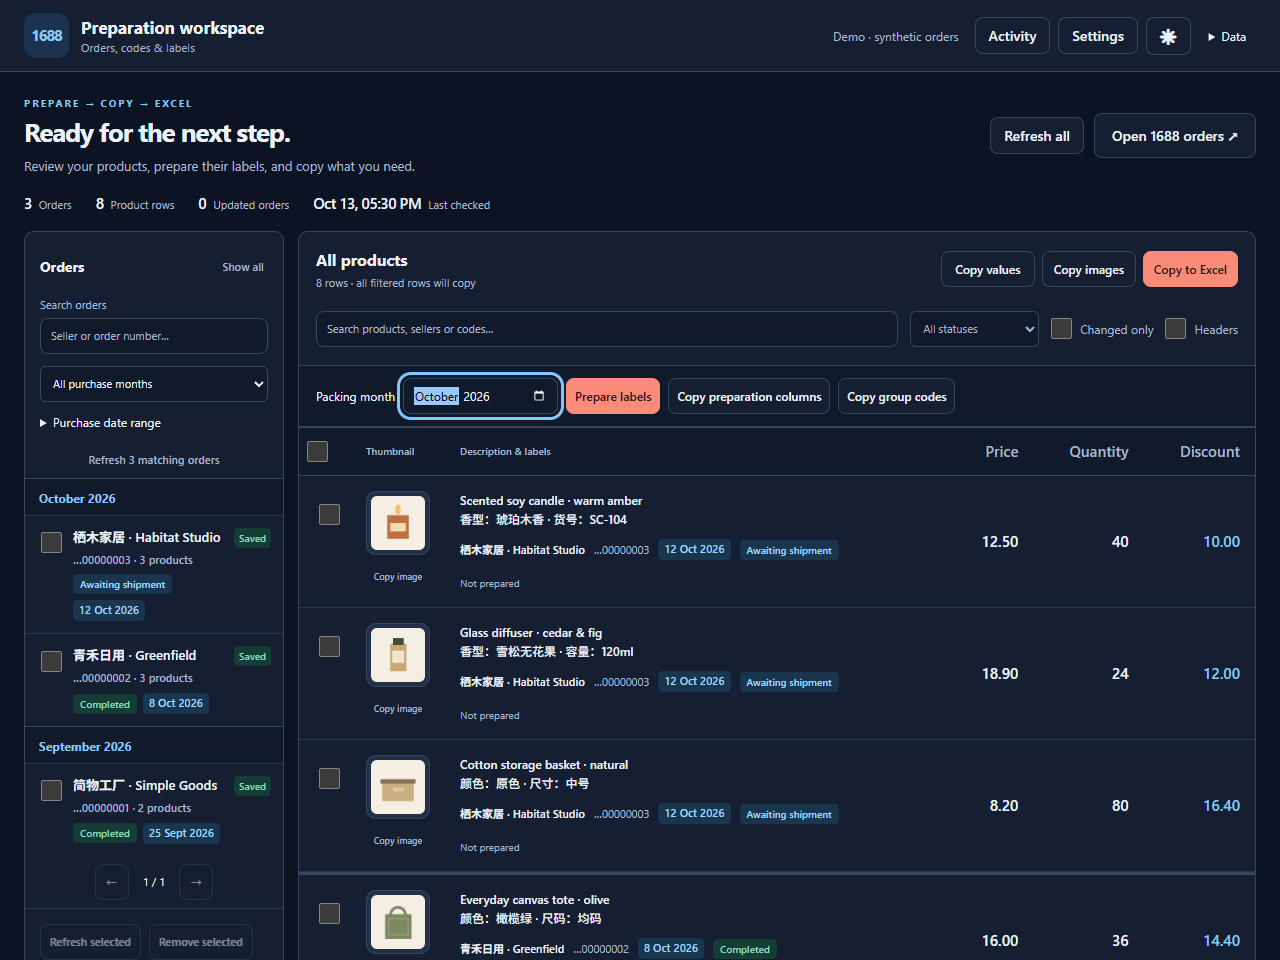
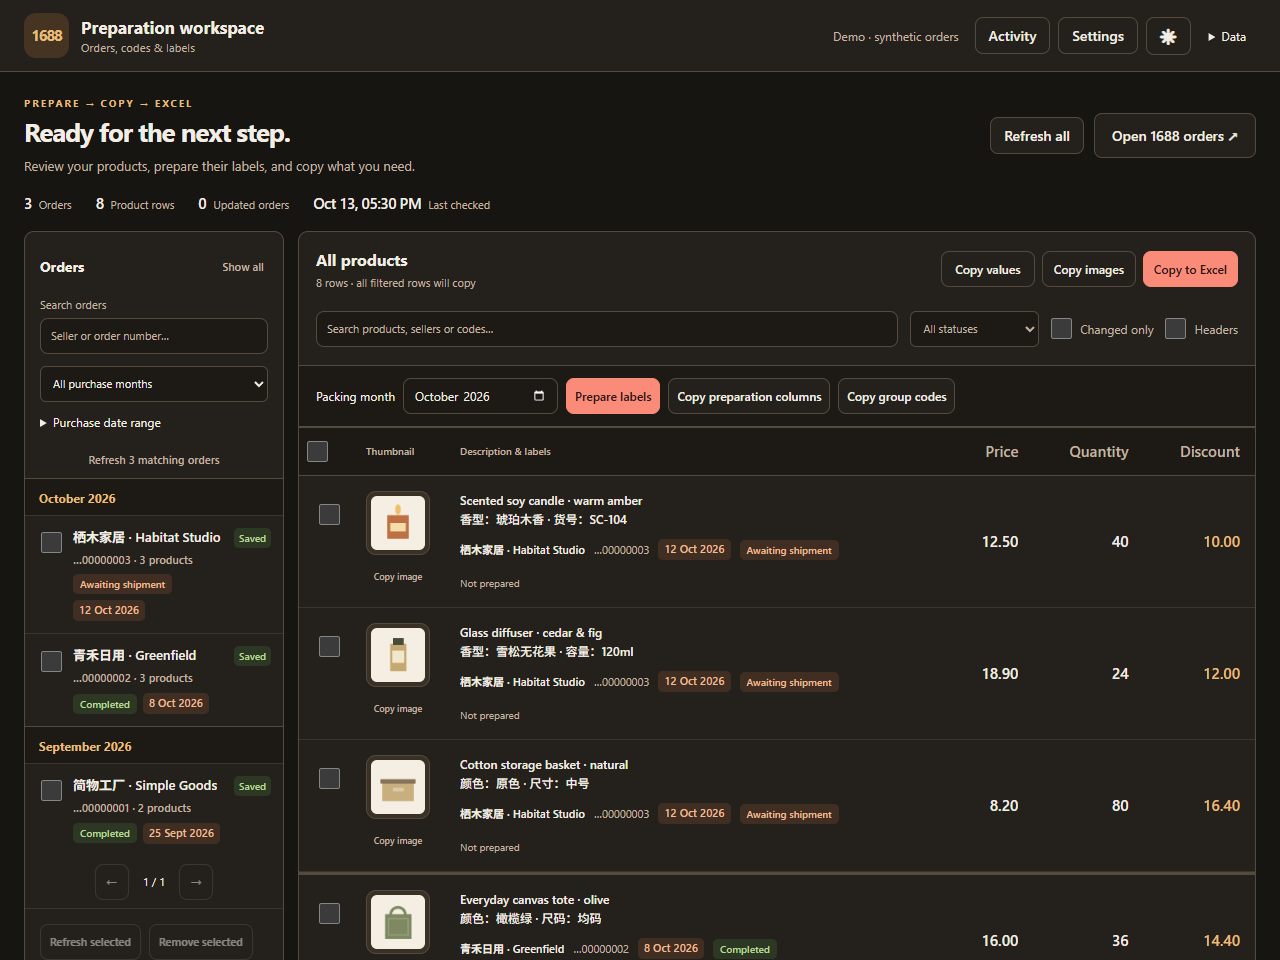
Replace blue interface tones with a warm neutral palette

diff --git a/src/library.css b/src/library.css
@@ -1,102 +1,102 @@
 /* Semantic colors work in Chrome 120 without light-dark(). */
 :root {
-  --page: #f4f6fa;
-  --surface: #ffffff;
-  --text: #182337;
-  --muted: #58677f;
-  --border: #d7dfeb;
-  --divider: #e7edf5;
-  --hover: #eef3fa;
-  --field: #f7f9fc;
+  --page: #f6f3ee;
+  --surface: #fffdf9;
+  --text: #2c2723;
+  --muted: #6f6358;
+  --border: #d8cfc3;
+  --divider: #e9e1d6;
+  --hover: #eee6da;
+  --field: #faf7f1;
   --accent: #c74335;
   --accent-hover: #ab342b;
-  --on-accent: #ffffff;
-  --accent-text: #136b99;
-  --control-accent: #246dc5;
-  --selected: #e9f2ff;
-  --success: #e7f5ef;
-  --success-text: #22684d;
-  --warning: #fff4db;
-  --warning-text: #805a16;
+  --on-accent: #fffdf9;
+  --accent-text: #855621;
+  --control-accent: #9b5b25;
+  --selected: #f4e6d1;
+  --success: #eaf1df;
+  --success-text: #48652b;
+  --warning: #fff2ce;
+  --warning-text: #785516;
   --warning-border: #e9d4a5;
-  --info: #e7f2fc;
-  --info-text: #226593;
-  --danger: #fdebef;
-  --danger-text: #a32e42;
+  --info: #f2e5dd;
+  --info-text: #875237;
+  --danger: #fce8e2;
+  --danger-text: #9c3542;
   --changed: #fffaf0;
-  --thumb: #edf2f8;
-  --focus: #1675d8;
-  --feedback: #1d334d;
-  --on-feedback: #ffffff;
+  --thumb: #ede5da;
+  --focus: #95511d;
+  --feedback: #45382b;
+  --on-feedback: #fffdf9;
   --error: #b5363e;
-  --on-error: #ffffff;
+  --on-error: #fffdf9;
 }
 @media (prefers-color-scheme: dark) {
   :root:not(:has(> head > meta[name='color-scheme'][content='light'])) {
-    --page: #0c1322;
-    --surface: #151f31;
-    --text: #edf3fc;
-    --muted: #a9b8cf;
-    --border: #34455e;
-    --divider: #27364e;
-    --hover: #20304a;
-    --field: #101a2b;
+    --page: #171512;
+    --surface: #24211d;
+    --text: #f3eee5;
+    --muted: #c2b5a2;
+    --border: #544a3e;
+    --divider: #3d352c;
+    --hover: #332d25;
+    --field: #1d1a16;
     --accent: #fb8b79;
     --accent-hover: #ff9d8d;
     --on-accent: #291714;
-    --accent-text: #8ac9f5;
-    --control-accent: #7ac4ff;
-    --selected: #1b3351;
-    --success: #163c36;
-    --success-text: #8eddbd;
-    --warning: #3d311e;
+    --accent-text: #e8bd7c;
+    --control-accent: #e8ad63;
+    --selected: #443421;
+    --success: #2c3824;
+    --success-text: #bbd99b;
+    --warning: #43351c;
     --warning-text: #f1ce86;
-    --warning-border: #6f5630;
-    --info: #19364e;
-    --info-text: #a0d9fc;
-    --danger: #47242f;
-    --danger-text: #ffb5c5;
-    --changed: #302b24;
-    --thumb: #223149;
-    --focus: #7ec8ff;
-    --feedback: #244865;
-    --on-feedback: #edf5ff;
-    --error: #f5a0a6;
-    --on-error: #39151e;
+    --warning-border: #705c33;
+    --info: #402e23;
+    --info-text: #edbd97;
+    --danger: #482824;
+    --danger-text: #ffb6a6;
+    --changed: #393023;
+    --thumb: #393126;
+    --focus: #e8b875;
+    --feedback: #493a29;
+    --on-feedback: #fff4e3;
+    --error: #f5a099;
+    --on-error: #381918;
   }
 }
 :root:has(> head > meta[name='color-scheme'][content='dark']) {
   color-scheme: dark;
-  --page: #0c1322;
-  --surface: #151f31;
-  --text: #edf3fc;
-  --muted: #a9b8cf;
-  --border: #34455e;
-  --divider: #27364e;
-  --hover: #20304a;
-  --field: #101a2b;
+  --page: #171512;
+  --surface: #24211d;
+  --text: #f3eee5;
+  --muted: #c2b5a2;
+  --border: #544a3e;
+  --divider: #3d352c;
+  --hover: #332d25;
+  --field: #1d1a16;
   --accent: #fb8b79;
   --accent-hover: #ff9d8d;
   --on-accent: #291714;
-  --accent-text: #8ac9f5;
-  --control-accent: #7ac4ff;
-  --selected: #1b3351;
-  --success: #163c36;
-  --success-text: #8eddbd;
-  --warning: #3d311e;
+  --accent-text: #e8bd7c;
+  --control-accent: #e8ad63;
+  --selected: #443421;
+  --success: #2c3824;
+  --success-text: #bbd99b;
+  --warning: #43351c;
   --warning-text: #f1ce86;
-  --warning-border: #6f5630;
-  --info: #19364e;
-  --info-text: #a0d9fc;
-  --danger: #47242f;
-  --danger-text: #ffb5c5;
-  --changed: #302b24;
-  --thumb: #223149;
-  --focus: #7ec8ff;
-  --feedback: #244865;
-  --on-feedback: #edf5ff;
-  --error: #f5a0a6;
-  --on-error: #39151e;
+  --warning-border: #705c33;
+  --info: #402e23;
+  --info-text: #edbd97;
+  --danger: #482824;
+  --danger-text: #ffb6a6;
+  --changed: #393023;
+  --thumb: #393126;
+  --focus: #e8b875;
+  --feedback: #493a29;
+  --on-feedback: #fff4e3;
+  --error: #f5a099;
+  --on-error: #381918;
 }
 :root:has(> head > meta[name='color-scheme'][content='light']) {
   color-scheme: light;
@@ -119,6 +119,16 @@
 }
 body {
   margin: 0;
+}
+::selection {
+  background: var(--selected);
+  color: var(--text);
+}
+input::-webkit-datetime-edit-month-field:focus,
+input::-webkit-datetime-edit-day-field:focus,
+input::-webkit-datetime-edit-year-field:focus {
+  background: var(--selected);
+  color: var(--text);
 }
 button,
 input,
@@ -679,7 +689,7 @@ td.select-col {
   background: var(--feedback);
   color: var(--on-feedback);
   border-radius: 8px;
-  box-shadow: 0 8px 28px #080f2026;
+  box-shadow: 0 8px 28px #17120c26;
   font-size: 12px;
   max-width: 900px;
   margin: 20px auto 0;
@@ -701,7 +711,7 @@ dialog {
   color: var(--text);
 }
 dialog::backdrop {
-  background: #060d1b9e;
+  background: #100d099e;
 }
 .dialog-close {
   float: right;

diff --git a/src/list-toolbar.js b/src/list-toolbar.js
@@ -8,7 +8,7 @@ export function mountListToolbar(document, { readList, send }) {
     return el
   }
   const style = make('style')
-  style.textContent = `:host{all:initial;position:fixed;bottom:14px;right:14px;z-index:2147483647;display:block;max-width:calc(100vw - 28px)}aside{font:12px/1.5 system-ui,sans-serif;color:#344330;background:#fcfcf8;border:1px solid #d6dfcc;border-radius:12px;box-shadow:0 5px 25px #19351b24;padding:13px;width:360px;max-width:calc(100vw - 28px);box-sizing:border-box}strong{font-size:12px;display:block;margin-bottom:8px}nav,.actions{display:flex;gap:6px;flex-wrap:wrap}button{font:inherit;border:1px solid #d6dfcc;border-radius:6px;background:white;color:#475b3c;padding:8px 10px;cursor:pointer}.primary{background:#dd4d23;color:white;border-color:#dd4d23}button:disabled{opacity:.5;cursor:default}button:focus-visible,summary:focus-visible{outline:3px solid #598bd0;outline-offset:2px}p{margin:8px 0;overflow-wrap:anywhere;font-size:11px}p:empty,[hidden]{display:none!important}.error{color:#a13f24}details{margin-top:10px}summary{cursor:pointer;font-size:11px;color:#687761}.confirm,.progress{margin-top:10px;padding-top:10px;border-top:1px solid #d6dfcc}.confirm{border:1px solid #dfbd85;background:#fff7e8;padding:10px;border-radius:8px}.confirm strong{font-size:12px}.secondary{font-size:11px}a{color:inherit}@media(prefers-color-scheme:dark){aside{color:#e0e8db;background:#202620;border-color:#43513e}button{color:#d8e4d0;background:#2b3429;border-color:#4b5945}.primary{background:#c64522;color:#fff;border-color:#c64522}summary{color:#b4c4aa}.confirm{background:#352d1f;border-color:#71603c}.error{color:#ffb6a6}.progress{border-color:#43513e}}`
+  style.textContent = `:host{all:initial;position:fixed;bottom:14px;right:14px;z-index:2147483647;display:block;max-width:calc(100vw - 28px)}aside{font:12px/1.5 system-ui,sans-serif;color:#344330;background:#fcfcf8;border:1px solid #d6dfcc;border-radius:12px;box-shadow:0 5px 25px #19351b24;padding:13px;width:360px;max-width:calc(100vw - 28px);box-sizing:border-box}strong{font-size:12px;display:block;margin-bottom:8px}nav,.actions{display:flex;gap:6px;flex-wrap:wrap}button{font:inherit;border:1px solid #d6dfcc;border-radius:6px;background:white;color:#475b3c;padding:8px 10px;cursor:pointer}.primary{background:#dd4d23;color:white;border-color:#dd4d23}button:disabled{opacity:.5;cursor:default}button:focus-visible,summary:focus-visible{outline:3px solid #b77c32;outline-offset:2px}p{margin:8px 0;overflow-wrap:anywhere;font-size:11px}p:empty,[hidden]{display:none!important}.error{color:#a13f24}details{margin-top:10px}summary{cursor:pointer;font-size:11px;color:#687761}.confirm,.progress{margin-top:10px;padding-top:10px;border-top:1px solid #d6dfcc}.confirm{border:1px solid #dfbd85;background:#fff7e8;padding:10px;border-radius:8px}.confirm strong{font-size:12px}.secondary{font-size:11px}a{color:inherit}@media(prefers-color-scheme:dark){aside{color:#e0e8db;background:#202620;border-color:#43513e}button{color:#d8e4d0;background:#2b3429;border-color:#4b5945}.primary{background:#c64522;color:#fff;border-color:#c64522}summary{color:#b4c4aa}.confirm{background:#352d1f;border-color:#71603c}.error{color:#ffb6a6}.progress{border-color:#43513e}}`
   const aside = make('aside')
   aside.setAttribute('aria-label', '1688 order library')
   const nav = make('nav')

diff --git a/src/label-editor.css b/src/label-editor.css
@@ -47,7 +47,7 @@
 }
 
 .label-editor-field:focus {
-  outline: 2px solid #2676d9;
+  outline: 2px solid #95511d;
   outline-offset: -2px;
 }
 
@@ -59,7 +59,7 @@
 }
 
 .label-editor input.label-editor-field::placeholder {
-  color: #60656e;
+  color: #6b6156;
   font-weight: 500;
 }
 
@@ -114,12 +114,12 @@
 
 .label-editor input.label-code-variantSuffix,
 .label-editor input.label-code-variantSuffix:hover {
-  border-color: #66d9ef;
+  border-color: #e7b66d;
 }
 
 .label-editor input.label-code-sizeSuffix,
 .label-editor input.label-code-sizeSuffix:hover {
-  border-color: #c6a4ff;
+  border-color: #f0a18e;
 }
 
 .label-editor input.label-code-part:placeholder-shown {
@@ -129,7 +129,7 @@
 }
 
 .label-editor input.label-code-part::placeholder {
-  color: #596575;
+  color: #6f6253;
 }
 
 .label-editor input.label-code-part:focus-visible {
@@ -138,7 +138,7 @@
 }
 
 .label-editor input.label-code-part:placeholder-shown:focus-visible {
-  outline-color: #2676d9;
+  outline-color: #95511d;
 }
 
 .label-code-guide {
@@ -155,7 +155,7 @@
   display: inline-block;
   margin: 0;
   padding: 5px 9px;
-  border: 1px solid var(--border, #c4c8d0);
+  border: 1px solid var(--border, #d8cfc3);
   border-radius: 6px;
 }
 
@@ -164,11 +164,11 @@
 }
 
 .label-code-guide .label-code-key-variantSuffix {
-  border-bottom: 3px solid #28a4c4;
+  border-bottom: 3px solid #b77c32;
 }
 
 .label-code-guide .label-code-key-sizeSuffix {
-  border-bottom: 3px solid #9a78d4;
+  border-bottom: 3px solid #bf6b58;
 }
 
 .label-composed-code {

diff --git a/src/page-download.js b/src/page-download.js
@@ -30,7 +30,7 @@ export function mountPageDownload(document, prepareFile, actions = {}) {
       border-radius: 8px; background: #e64b10; color: white; text-decoration: none;
       text-align: center; font-weight: 650; }
     a:hover { background: #c93e08; }
-    a:focus-visible { outline: 3px solid #456fba; outline-offset: 3px; }
+    a:focus-visible { outline: 3px solid #95511d; outline-offset: 3px; }
     .status { margin: 8px 0 0; overflow-wrap: anywhere; font-size: 12px; color: #58614f; }
     .status:empty { margin: 0; }
     .status[data-tone='error'] { color: #972e21; }
@@ -38,7 +38,7 @@ export function mountPageDownload(document, prepareFile, actions = {}) {
     button { font: inherit; cursor: pointer; flex: 1; padding: 8px 5px;
       border: 1px solid #d9dfd2; border-radius: 6px; background: white; color: #52634b; font-size: 11px; }
     button:hover { background: #e9eee2; }
-    button:focus-visible { outline: 3px solid #456fba; outline-offset: 3px; }
+    button:focus-visible { outline: 3px solid #95511d; outline-offset: 3px; }
     [hidden] { display: none !important; }
     aside[data-importing] { width: 300px; max-height: calc(100dvh - 32px); overflow-y: auto; }
     .import-section { border-top: 1px solid #d9dfd2; margin-top: 10px; padding-top: 10px; }

diff --git a/src/packing.css b/src/packing.css
@@ -488,10 +488,10 @@ select {
   text-transform: uppercase;
 }
 .variants .variant-code-options .code-part-variantSuffix {
-  border-inline-start: 3px solid #28a4c4;
+  border-inline-start: 3px solid #b77c32;
 }
 .variants .variant-code-options .code-part-sizeSuffix {
-  border-inline-start: 3px solid #9a78d4;
+  border-inline-start: 3px solid #bf6b58;
 }
 .variant-code-readout {
   display: block;

diff --git a/CHROMEWEBSTORE.md b/CHROMEWEBSTORE.md
@@ -2,7 +2,7 @@
 
 > Last Updated: 2026-10-15
 >
-> Version 2.2.9 passed local, Chromium, Edge and Windows Excel verification for import progress and the preparation interface refresh. The full live order collection remains incomplete. No store submission or publication. Earlier verification and live browser observations are recorded separately.
+> Version 2.2.10 passed local, Chromium and Edge verification for the warm interface palette. The full live order collection remains incomplete. No store submission or publication. Earlier verification and live browser observations are recorded separately.
 
 ## Store Listing
 
@@ -19,7 +19,7 @@ Collect selected orders, browse purchases by month or date range, and review ori
 
 Zoom product photos from the spreadsheet or preparation and see carton and barcode previews beside each product. Preparation saves automatically; invalid entries stay visible until corrected. Hover over a field or action for a short hint. Code options stay visible; grouping tools stay collapsed until needed. Edit variant and size endings directly on the barcode code band. Share one barcode, give source rows separate barcodes or move variants to a new product. Undo and Redo restore pending edits until autosave completes.
 
-Edit barcode and carton-mark text directly in a label preview. Barcode code bands fit their text; carton marks use larger CE, product codes and categories with compact blank operational fields. Copy printable label images, chosen preparation columns, source values or separate product pictures into Excel. Product codes appear once per group in preparation columns. Headers start off and remember your choice. Settings control label dimensions, resolution, logo and vocabulary. The workspace starts dark and remembers your light/dark choice.
+Edit barcode and carton-mark text directly in a label preview. Barcode code bands fit their text; carton marks use larger CE, product codes and categories with compact blank operational fields. Copy printable label images, chosen preparation columns, source values or separate product pictures into Excel. Product codes appear once per group in preparation columns. Headers start off and remember your choice. Settings control label dimensions, resolution, logo and vocabulary. The workspace uses warm charcoal and cream themes with amber, coral and sage accents. It starts dark and remembers your light/dark choice.
 
 Search by seller or order number and combine with purchase-date filters. Refresh all saved orders, selected orders or matching orders. Multiple-item actions show their scope for confirmation. The reader panel and Activity show processed, saved, failed and pending counts, saved product rows, current read stage and elapsed time, and the latest result. Activity holds pause/retry controls, old notices and a downloadable report of every import result, including the latest failure details retained after retry. Source changes retain previous versions and preserve your notes and preparation edits. Price adjustments not already included in row discounts are distributed across products; wholesale reductions already in prices are counted once; order-only shop and promotion discounts, shipping, customization charges and red-packet reductions stay separate in order totals. A foreign-currency fee with no displayed amount is clearly marked as unspecified. New preparation starts with the current month. Click the dimmed background to close an overlay or cancel a confirmation.
 
@@ -53,7 +53,7 @@ One buyer account per library and the observed supported page layouts. Imports a
 | Small promotional tile | 440 × 280                            | Not created                                                                              |
 | Optional marquee       | 1400 × 560                           | Not created                                                                              |
 
-Workspace and label-editor screenshots use synthetic orders and were regenerated for version 2.2.9; store submission needs separate store-sized composition. Existing icons include 1688/Alibaba and spreadsheet branding; rights were not established in this task. The bundled Casa Elida label logo and any user-selected replacement also need appropriate rights for their intended use. Confirm permission or replace artwork before submission. Do not imply affiliation.
+Workspace and label-editor screenshots use synthetic orders and were regenerated for version 2.2.10; store submission needs separate store-sized composition. Existing icons include 1688/Alibaba and spreadsheet branding; rights were not established in this task. The bundled Casa Elida label logo and any user-selected replacement also need appropriate rights for their intended use. Confirm permission or replace artwork before submission. Do not imply affiliation.
 
 ## Permissions Justification
 
@@ -130,6 +130,7 @@ Draft substance: records, history, notes, pictures, preparation edits, reserved 
 
 | Version | Date       | Changes                                                                                                                                                                         | Status                                                                                                                                             |
 | ------- | ---------- | ------------------------------------------------------------------------------------------------------------------------------------------------------------------------------- | -------------------------------------------------------------------------------------------------------------------------------------------------- |
+| 2.2.10  | 2026-10-15 | Replace blue interface colors with warm charcoal/cream, amber/coral accents and sage success states | Local, Chromium and Edge checks passed; no store submission |
 | 2.2.9   | 2026-10-15 | Live import checkpoints, original-photo zoom, navy theme, date/status badges, compact preparation, explicit barcode suffix editing and larger carton layout | Local, Chromium, Edge and Windows Excel checks passed; live retry outstanding; no store submission |
 | 2.2.8   | 2026-10-15 | Recognize free-shipping badges, order-only promotions, row-included credits and customization inside original totals; richer bounded failure reports                            | Local, Chromium, Edge and backup checks passed; live retry outstanding; no store submission                                                        |
 | 2.2.7   | 2026-10-15 | Automatic preparation saving, safe overlay dismissal, hover/focus hints, simpler product-variant fields and read-only source-size references                                    | Local, Chromium, Edge and Windows Excel checks passed; no store submission                                                                         |
@@ -152,6 +153,7 @@ Draft substance: records, history, notes, pictures, preparation edits, reserved 
 
 ### Development verification
 
+- Version 2.2.10 passed source/docs checks, 236 unit checks, the explicit production rebuild, 108 packaged Chromium tests and five focused Edge theme tests. Both palettes retain readable text, badges and buttons; native checkbox states, focus and saved preferences passed. Synthetic screenshots were regenerated and visually checked. Interface color inspection found no blue/cyan tones. Excel verification from 2.2.9 remains applicable to the unchanged clipboard and printed-label implementation; it was not rerun. Live embedded-browser acceptance remains unavailable.
 - Version 2.2.9 passed source/docs checks, 236 unit checks, the explicit production rebuild, 108 packaged Chromium tests and 16 focused Edge tests. Four Windows Excel checks passed in disposable preformatted workbooks, preserving source numbers, separate pictures, current label image hashes and headerless preparation values. Excel measured barcodes at 40.040 × 19.932 mm and carton marks at 148.519 × 104.775 mm; the clipboard was restored and supplied workbooks were untouched. The Excel reference now includes the complete authored model to avoid separately rasterizing identical text with slightly different antialiasing; exact image checks remain. New coverage verifies progress during delayed page hydration, saved-row counts after persistence, lightweight updates without library redraws, photo zoom, dates/statuses, both palettes, larger checkbox targets and separate barcode suffix edits. Independent review found a back-forward-cache cleanup issue; the fix and regression passed. Synthetic screenshots were regenerated. Live 1688/installed-extension access remains blocked, full order collection remains incomplete, and physical printing/scanning is unverified.
 - Version 2.2.8 passed source/docs checks, 223 unit checks, the explicit production rebuild, 103 packaged Chromium tests and 40 focused Edge import/database tests. Synthetic cases cover free-shipping badges beside monetary reductions, order-only promotion discounts, already-represented credits, customization included in original gross, equal wholesale/customization values, strict ambiguity rejection and richer bounded financial evidence. A disposable database restored the supplied backup with all source snapshots, authored preparation and reservations preserved. Independent review corrections passed regression checks. Synthetic screenshots were regenerated without visual changes. The live scan/retry remains unverified; native Excel and physical printing were not rerun because clipboard and label rendering are unchanged.
 - Version 2.2.7 passed source/docs checks, 211 unit checks, the explicit production rebuild, 101 packaged Chromium tests, 23 focused Edge tests and four Windows Excel clipboard checks in disposable workbooks. Autosave coverage includes typing during a delayed write, independent order failures, cross-tab conflicts, confirmation before discarding a failed draft, and safe X/backdrop/Escape dismissal. Hover/focus hints include the Chrome 120 fallback. Synthetic screenshots were refreshed. Live embedded-browser acceptance and physical printing remain unverified.

diff --git a/docs/development.md b/docs/development.md
@@ -48,6 +48,8 @@ The preparation form shows product photos with original-image zoom, carton previ
 
 `photo-viewer.js` shares original-image zoom between table thumbnails and preparation. Display-only order status mappings retain the original status in storage, filter values and tooltips; unknown statuses remain untranslated. Purchase dates use semantic `time` elements and visual chips. Native checkbox states and 44px selection labels retain keyboard/mixed-state behavior across both themes.
 
+Keep the interface free of blue tones: use warm charcoal/cream surfaces, amber and coral accents, and sage success states. Apply the same palette to focus rings, date selections and label-editor controls; printed labels remain black and white.
+
 Preparation barcode editors receive explicit `baseCode`, `variantSuffix`, `sizeSuffix` and mapping state. Separate fields overlay the fixed barcode band; their updates persist exact suffix values through the existing transactional preparation save. The base is read-only there and edited on the carton/product code. The composed payload still passes the local encoder, size/overflow and duplicate-code validation before saving or copying. This avoids guessing the variant/size boundary from one freeform payload. Carton text fits actual glyph bounds, with shared editor bounds and blank writing lines retained at the configured physical size.
 
 Preparation autosaves after 800 ms idle and flushes before closing or label output. Opening an order prepares that order only; unvisited orders are not silently allocated in a loop. Writes retain transactional allocation and revision checks. `preparation-save.js` acknowledges submitted values in place while preserving newer typing and live field references. Successful writes update only that order's membership cache. Invalid/conflicting edits stay in the open dialog with inline status; navigation warns while unsaved work remains. Cross-tab conflicts never overwrite newer revisions.
